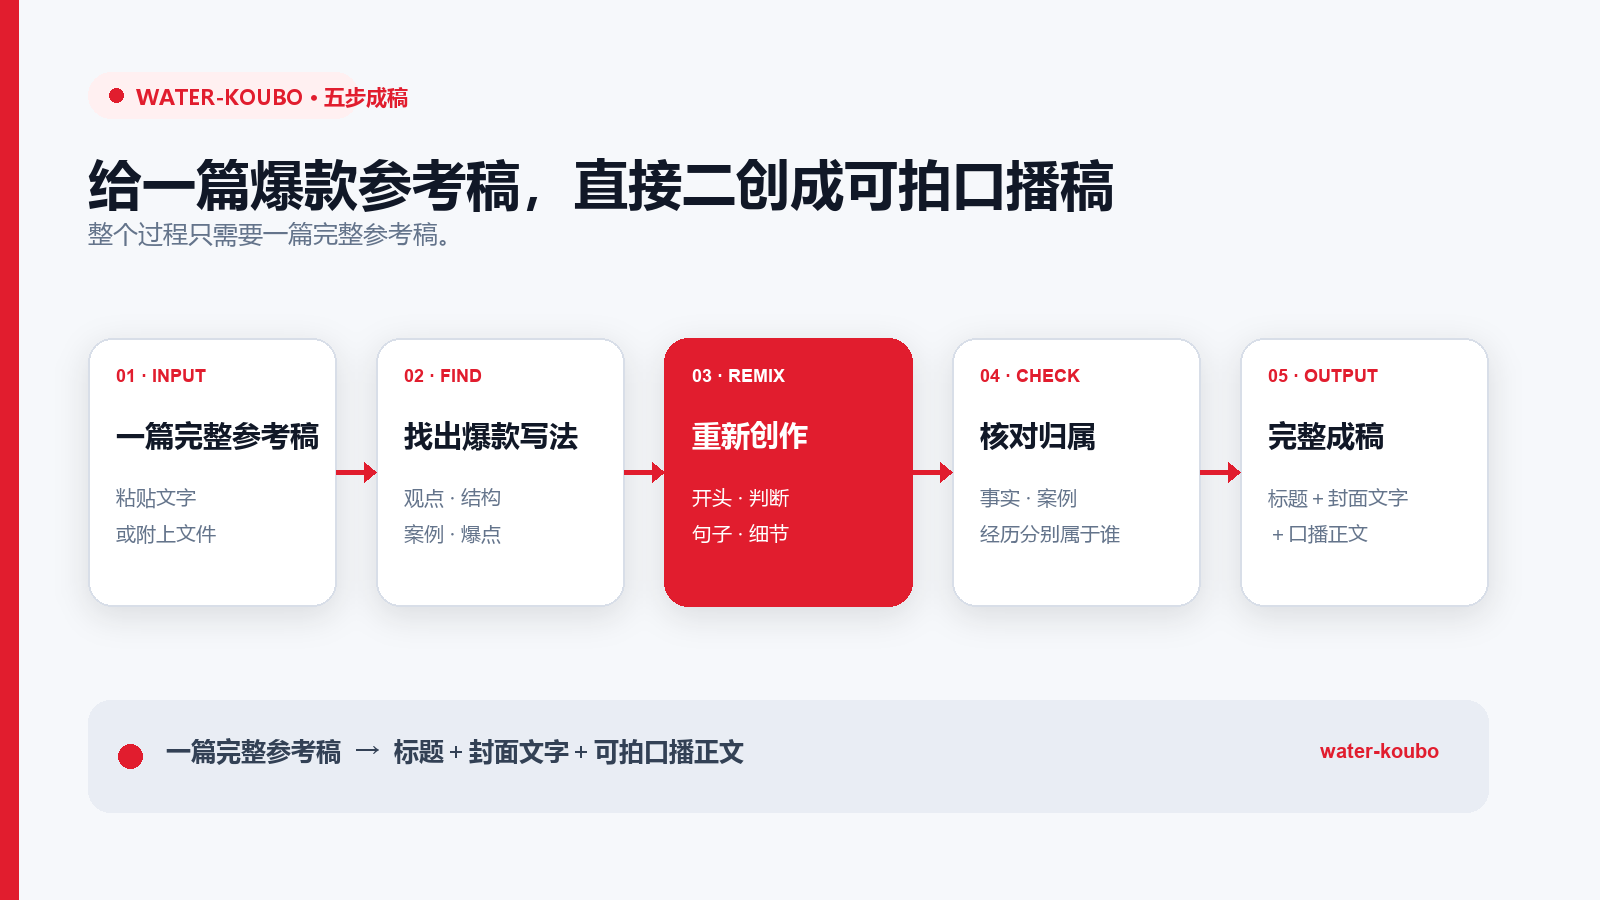
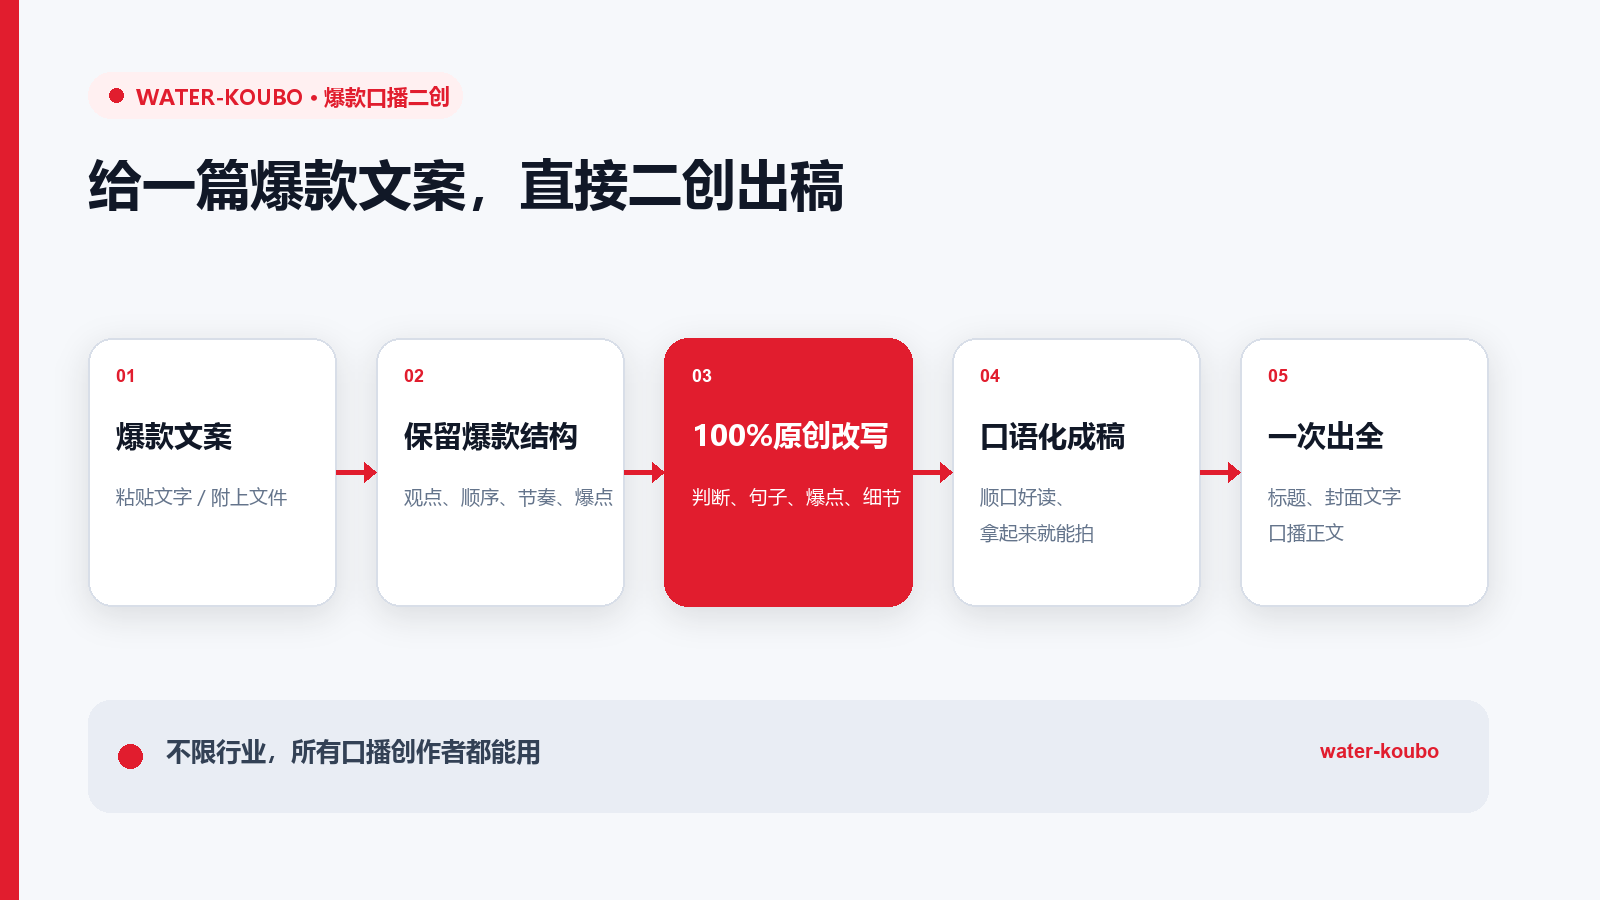
docs: refresh method flow copy

diff --git a/tests/test_public_contract.py b/tests/test_public_contract.py
@@ -648,13 +648,32 @@ class PublicPackageContractTests(unittest.TestCase):
 
         flow = read("media/method-flow.svg")
         for exact_text in [
-            "一篇完整参考稿",
-            "找出爆款写法",
-            "重新创作",
-            "核对归属",
-            "完整成稿",
+            "WATER-KOUBO · 爆款口播二创",
+            "给一篇爆款文案，直接二创出稿",
+            "爆款文案",
+            "保留爆款结构",
+            "100%原创改写",
+            "口语化成稿",
+            "一次出全",
+            "粘贴文字／附上文件",
+            "观点、顺序、节奏、爆点",
+            "判断、句子、爆点、细节",
+            "顺口好读、拿起来就能拍",
+            "标题、封面文字、口播正文",
+            "不限行业，所有口播创作者都能用",
         ]:
             self.assertIn(exact_text, flow)
+        for removed_text in [
+            "整个过程只需要一篇完整参考稿",
+            "13年营销经验",
+            "13 年营销经验",
+            "01 · INPUT",
+            "02 · FIND",
+            "03 · REMIX",
+            "04 · CHECK",
+            "05 · OUTPUT",
+        ]:
+            self.assertNotIn(removed_text, flow)
 
     def test_all_readme_local_links_exist(self) -> None:
         for readme_path in README_FILES:
